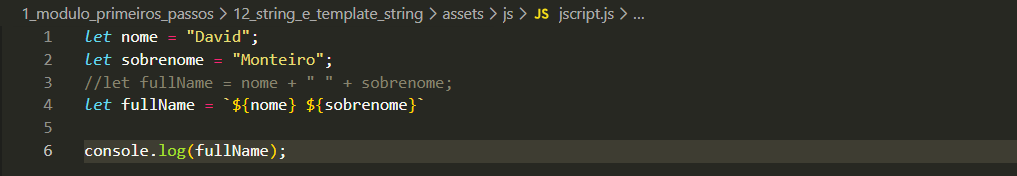
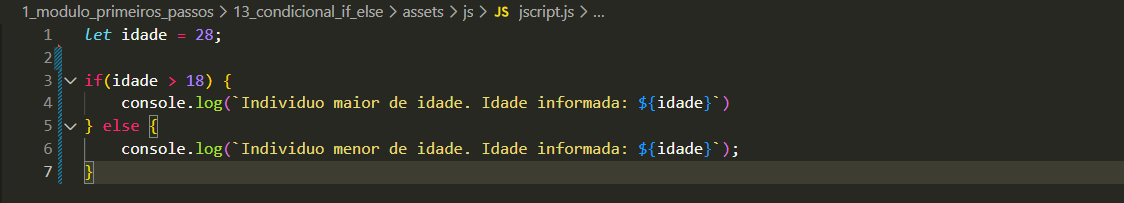
JS Fundamentos - Condicional if/else

Changed region(s): [[0.0, 0.0284, 0.6706, 0.9091], [0.0914, 0.6818, 0.6706, 0.767], [0.3048, 0.4261, 0.3353, 0.4545]]

diff --git a/1_modulo_primeiros_passos/13_condicional_if_else/index.html b/1_modulo_primeiros_passos/13_condicional_if_else/index.html
@@ -21,8 +21,56 @@
             
             <h2>Intro:</h2>
             <p>
-                
+                Quando trabalhamos com a condicional <strong>if</strong>, estamos aplicando uma condição onde, se ela for <strong>atendida</strong>, será executado o resultado que definimos dentro do <strong>if</strong>.
             </p>
+
+            <section class="curso-ex">
+
+                <h3>If:</h3>
+                <p>
+                    Caso a condição do <strong>if não seja atendida</strong>, o código cairá automaticamente no <strong>else</strong>, onde podemos definir o que deve acontecer nessa situação.
+                </p>
+                
+                <h3>else:</h3>
+                <p>
+                    Caso a condicional <strong>if</strong> nao seja atendida, basicamente caira automaticamente na condicional <strong>else</strong>, onde tambem podemos adicionar o que pode ocorrer ao cair nessa condicional.
+                </p>
+
+                <h3>Condicionais</h3>
+                <p>
+                    Temos várias formas de usar <strong>condicionais</strong>. Uma delas é verificar se um valor é maior que outro, menor, igual, entre outras comparações. Isso nos dá uma grande diversidade de formas de aplicar condicionais no código.
+                </p>
+
+                <h3>Alguns simbolos bem usados sao:</h3>
+                <ul>
+                    <li>
+                        <strong> > maior </strong>
+                    </li>
+                    <li>
+                        <strong> < menor </strong>
+                    </li>
+                    <li>
+                        <strong>= = igual</strong>
+                    </li>
+                    <li>
+                        <strong>>= maior ou igual</strong>
+                    </li>
+                    <li>
+                        <strong><= menor ou igual</strong>
+                    </li>
+                    <li>
+                        <strong>!= diferente</strong>
+                    </li>
+                </ul>
+
+                <h3>Imagem de Exemplo:</h3>
+                <figure>
+                    <picture>
+                        <img src="assets/imgs/image.png" alt="" style="width:1050px;">
+                    </picture>
+                </figure>
+
+            </section>
 
 
 

diff --git a/1_modulo_primeiros_passos/13_condicional_if_else/assets/js/jscript.js b/1_modulo_primeiros_passos/13_condicional_if_else/assets/js/jscript.js
@@ -1,9 +1,7 @@
-let nome = "David";
-let sobrenome = "Monteiro";
-//let fullName = nome + " " + sobrenome;
-let fullName = `${nome} ${sobrenome}`;
 let idade = 28;
-let idadeString = `${idade + 2} anos`;
 
-console.log(fullName);
-console.log(idadeString);
+if(idade > 18) {
+    console.log(`Individuo maior de idade. Idade informada: ${idade}`)
+} else {
+    console.log(`Individuo menor de idade. Idade informada: ${idade}`);
+}
